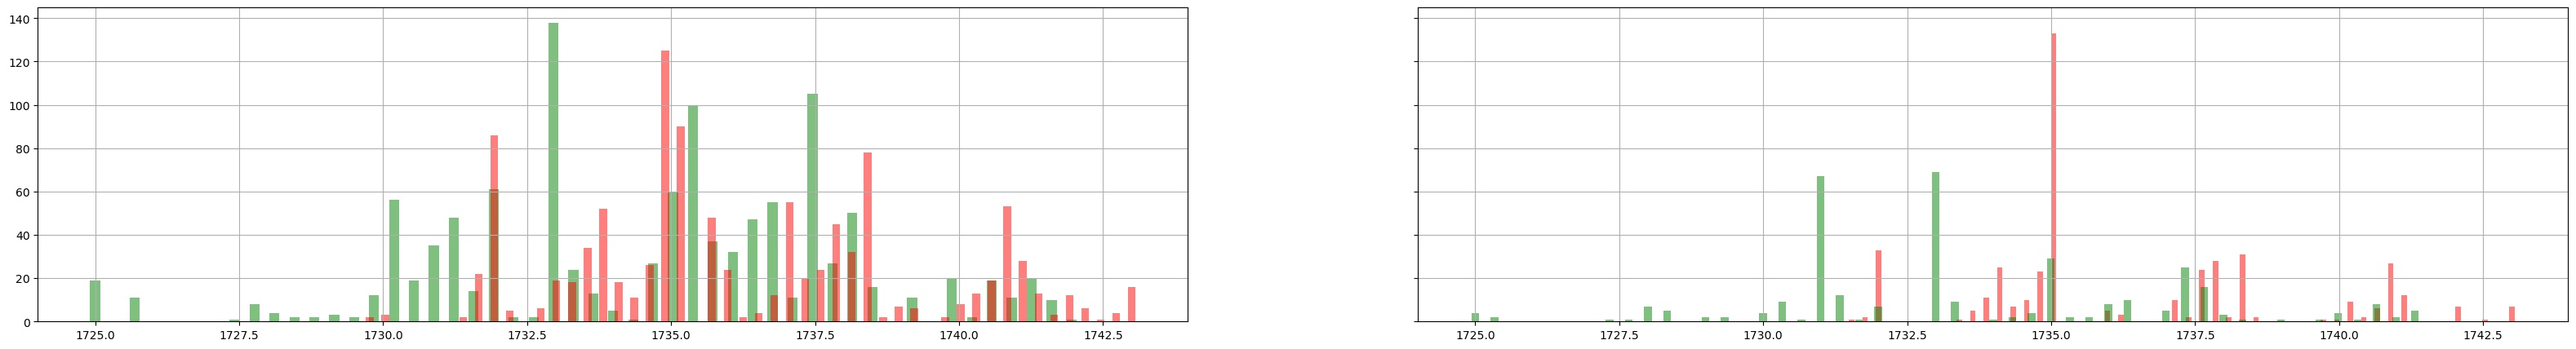
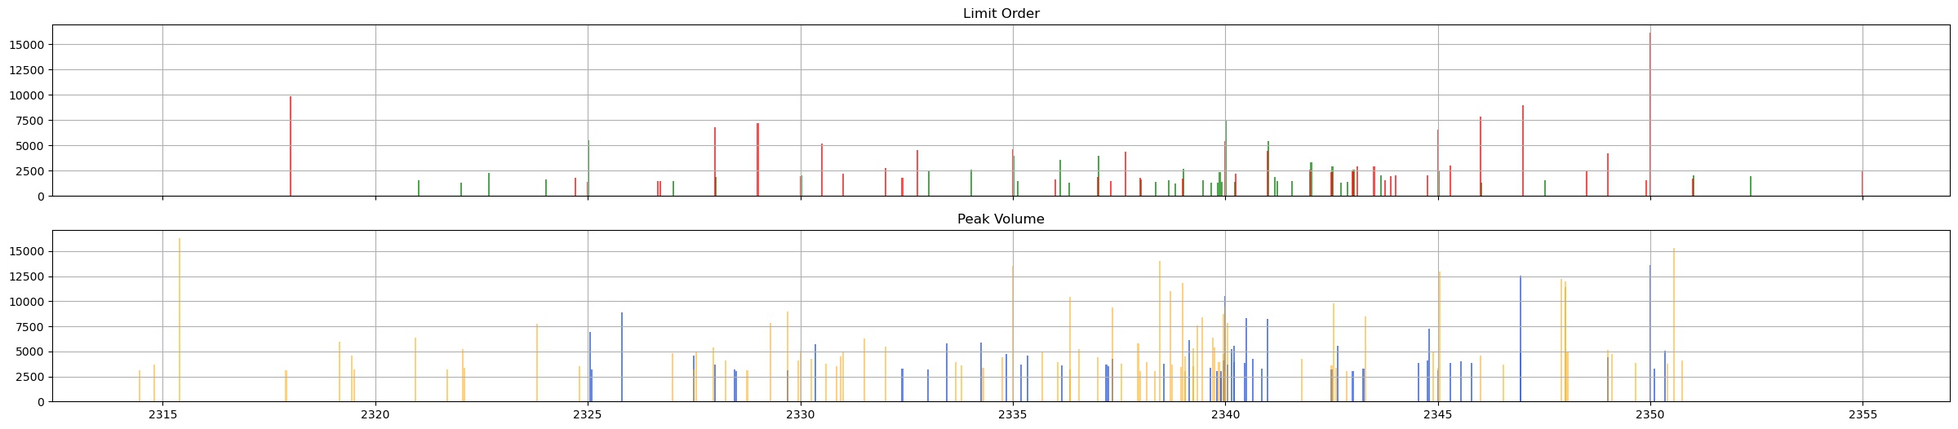
update

diff --git a/tick.py b/tick.py
@@ -18,13 +18,13 @@ def flatten(a):
 
     for k, p in enumerate(buy):
         a[f"bq{k}"] = p["quantity"]
-        a[f"bp{k}"] = a["last_price"] - p["price"]
+        a[f"bp{k}"] = p["price"]
         a[f"bpa{k}"] = p["price"]
         a[f"bo{k}"] = p["orders"]
 
     for k, p in enumerate(sell):
         a[f"sq{k}"] = p["quantity"]
-        a[f"sp{k}"] = p["price"] - a["last_price"]
+        a[f"sp{k}"] = p["price"]
         a[f"spa{k}"] = p["price"]
         a[f"so{k}"] = p["orders"]
     return a
@@ -62,30 +62,53 @@ def fetch_data(name, d, lead):
 def process_ticks(nm, end, lead):
     year, month, day = end.year, end.month, end.day
     anchor = fetch_data(f"NSE:{nm}", datetime.datetime(year, month, day, 9, 15, 1), lead)
-    bq = anchor[["bq0", "bq1", "bq2", "bq3", "bq4"]].values.reshape(-1)
-    sq = anchor[["sq0", "sq1", "sq2", "sq3", "sq4"]].values.reshape(-1)
-    bp, sp = np.percentile(bq, 99), np.percentile(sq, 99)
+    bpq_map = {}
+    spq_map = {}
 
-    bcdf, scdf = None, None
-    rb = 1
+    def update_dict(dct, key, val):
+        if key not in dct:
+            dct[key] = (val, 1)
+        elif dct[key][0] < val:
+            dct[key] = (val, dct[key][1]+1)
 
-    for c1, c2 in [("bq1", "sq1"), ("bq2", "sq2"), ("bq3", "sq3"), ("bq4", "sq4")]:
-        if bcdf is None:
-            bcdf = anchor[anchor[c1] > bp]
-            scdf = anchor[anchor[c2] > sp]
-        else:
-            bcdf = pd.concat([bcdf, anchor[anchor[c1] > bp]])
-            scdf = pd.concat([scdf, anchor[anchor[c2] > sp]])
+    def filter_by_per(tpl, per):
+        cutoff = np.percentile([_[1][0] for _ in tpl], per)
+        return [_ for _ in tpl if _[1][0] > cutoff]
 
-    bcdf["last_price"] = [round(x, rb) for x in bcdf["last_price"]]
-    scdf["last_price"] = [round(x, rb) for x in scdf["last_price"]]
+    for i in anchor.index:
+        bcol = [("bp0", "bq0"), ("bp1", "bq1"), ("bp2", "bq2"), ("bp3", "bq3"), ("bp4", "bq4")]
+        scol = [("sp0", "sq0"), ("sp1", "sq1"), ("sp2", "sq2"), ("sp3", "sq3"), ("sp4", "sq4")]
 
-    bcdfa = bcdf.groupby("last_price").agg({"bq0": "max","bq1": "max", "bq2": "max", "bq3": "max", "bq4": "max"}).reset_index(drop=False)
-    bcdfa["max"] = [(max(x)) for x in zip(bcdfa["bq1"], bcdfa["bq2"], bcdfa["bq3"], bcdfa["bq4"])]
+        for p, q in bcol:
+            update_dict(bpq_map, anchor.loc[i, p], anchor.loc[i, q])
 
-    scdfa = scdf.groupby("last_price").agg({"sq0": "max", "sq1": "max", "sq2": "max", "sq3": "max", "sq4": "max"}).reset_index(drop=False)
-    scdfa["max"] = [(max(x)) for x in zip(scdfa["sq1"], scdfa["sq2"], scdfa["sq3"], scdfa["sq4"])]
-    return anchor, bcdf, scdf, bcdfa, scdfa, bp, sp
+        for p, q in scol:
+            update_dict(spq_map, anchor.loc[i, p], anchor.loc[i, q])
+    bpq_map = filter_by_per(list(bpq_map.items()), 95)
+    spq_map = filter_by_per(list(spq_map.items()), 95)
+    return anchor, bpq_map, spq_map
+
+def process_volume(anchor):
+    # volume
+    vp = np.percentile(anchor["volume"].to_list(), 99.5)
+    ind = anchor.loc[anchor["volume"] > vp].index
+
+    t = []
+    for i in ind:
+        if i < 5:
+            i=5
+        pbq = max(anchor.loc[i-5:i-1, ["bq0", "bq1", "bq2", "bq3", "bq4"]].values.reshape(-1))
+        psq = max(anchor.loc[i-5:i-1, ["sq0", "sq1", "sq2", "sq3", "sq4"]].values.reshape(-1))
+        vlm = anchor.loc[i, "volume"]
+        color = "orange" if pbq < vlm/3 and psq < vlm/3 else "royalblue"
+        t.append((anchor.loc[i-1, "last_price"], vlm, color))
+    return t
+
+def process_spread(anchor):
+    thres = np.percentile(anchor["spread"], 5)
+    return anchor.loc[anchor["spread"] < thres, ["last_price", "avg_price"]]
+
+
 
 def concat_images(imga, imgb):
     """
@@ -113,55 +136,42 @@ def concat_n_images(image_path_list):
             output = concat_images(output, img)
     return output.astype(np.uint8)
 
-def render_time_sr(anchor, bcdf, scdf, bp, sp):
-    fig, axs = plt.subplots(1, 2, figsize=(40, 5), sharey=True, sharex=True)
+def render_quantity_volume_sr(bpq_map, spq_map, t):
+    fig, axs = plt.subplots(2, 1, figsize=(30, 6), sharey=False, sharex=True)
 
-    _=axs[0].hist(bcdf["last_price"], bins=50, rwidth=0.5, color="green", alpha=0.5, align="left")
-    _=axs[0].hist(scdf["last_price"], bins=50, rwidth=0.5, color="red", alpha=0.5, align="right")
+    _=axs[0].bar(x = [_[0] for _ in bpq_map], height= [_[1][0] for _ in bpq_map], width=0.04, color="green", align="edge", alpha=0.7)
+    _=axs[0].bar(x = [_[0] for _ in spq_map], height= [_[1][0] for _ in spq_map], width=0.04, color="red", align="center", alpha=0.7)
     axs[0].grid()
+    axs[0].set_title("Limit Order")
 
-    _=axs[1].hist(anchor.loc[anchor["sq0"] > sp, "last_price"], bins=50, rwidth=0.4, color="red", alpha=0.5, align="right")
-    _=axs[1].hist(anchor.loc[anchor["bq0"] > bp, "last_price"], bins=50, rwidth=0.4, color="green", alpha=0.5, align="left")
+    axs[1].bar(x=[_[0] for _ in t if _[2] == "royalblue"], height=[np.clip(x, 0, 1e+6) for x in [_[1] for _ in t if _[2] == "royalblue"]], width=0.04, color="royalblue", alpha=0.8)
+    axs[1].bar(x=[_[0] for _ in t if _[2] == "orange"], height=[np.clip(x, 0, 1e+6) for x in [_[1] for _ in t if _[2] == "orange"]], width=0.04, color="orange", alpha=0.5)
     axs[1].grid()
+    axs[1].set_title("Peak Volume")
 
     img_name = f"./static/temp/tick-1.jpg"
     fig.savefig(img_name, bbox_inches='tight')
     plt.close(fig)
     return img_name
 
-def render_quantity_sr(bcdfa, scdfa):
-    fig, axs = plt.subplots(2, 1, figsize=(40, 7), sharey=True, sharex=True)
-
-    _=axs[0].bar(x = bcdfa["last_price"], height=bcdfa["max"], width=0.04, color="green", align="center")
-    _=axs[0].bar(x = scdfa["last_price"].values, height=scdfa["max"].values, width=0.02, color="red", align="edge")
-    axs[0].grid()
-
-    _=axs[1].bar(x = bcdfa["last_price"], height=bcdfa["bq0"], width=0.04, color="green", align="center")
-    _=axs[1].bar(x = scdfa["last_price"].values, height=scdfa["sq0"].values, width=0.02, color="red", align="edge")
-    axs[1].grid()
+def render_spread(spread):
+    fig, ax = plt.subplots(1, 1, figsize=(30, 4), sharey=False, sharex=False)
+    ax.plot(spread["last_price"], marker="o")
+    ax.plot(spread["avg_price"], marker="o")
+    ax.grid()
+    ax.set_title("Spread over time")
 
     img_name = f"./static/temp/tick-2.jpg"
     fig.savefig(img_name, bbox_inches='tight')
     plt.close(fig)
     return img_name
 
-def render_volume(anchor):
-    vp = np.percentile(anchor["volume"].to_list(), 99.5)
-    t = anchor.loc[anchor["volume"] > vp][["last_price", "volume", "bpa0", "spa0", "bq0", "sq0", "bq1", "sq1", "bq2", "sq2", "bq3", "sq3", "bq4", "sq4"]]
-    fig, ax = plt.subplots(1,1, figsize=(40, 3))
-    ax.bar(x=t["last_price"], height=[np.clip(x, 0, 1e+6) for x in t["volume"]], width=0.05)
-    ax.grid()
-
-    img_name = f"./static/temp/tick-3.jpg"
-    fig.savefig(img_name, bbox_inches='tight')
-    plt.close(fig)
-    return img_name
-
 def render_graph(name, end, lead=None):
-    anchor, bcdf, scdf, bcdfa, scdfa, bp, sp = process_ticks(name, end, lead)
-    time_img = render_time_sr(anchor, bcdf, scdf, bp, sp)
-    quantity_img = render_quantity_sr(bcdfa, scdfa)
-    volume_img = render_volume(anchor)
+    anchor, bpq_map, spq_map = process_ticks(name, end, lead)
+    t = process_volume(anchor)
+    spread = process_spread(anchor)
+    quantity_img = render_quantity_volume_sr(bpq_map, spq_map, t)
+    spread_img = render_spread(spread)
 
-    fimg = concat_n_images([time_img, quantity_img, volume_img])
+    fimg = concat_n_images([quantity_img, spread_img])
     return fimg
